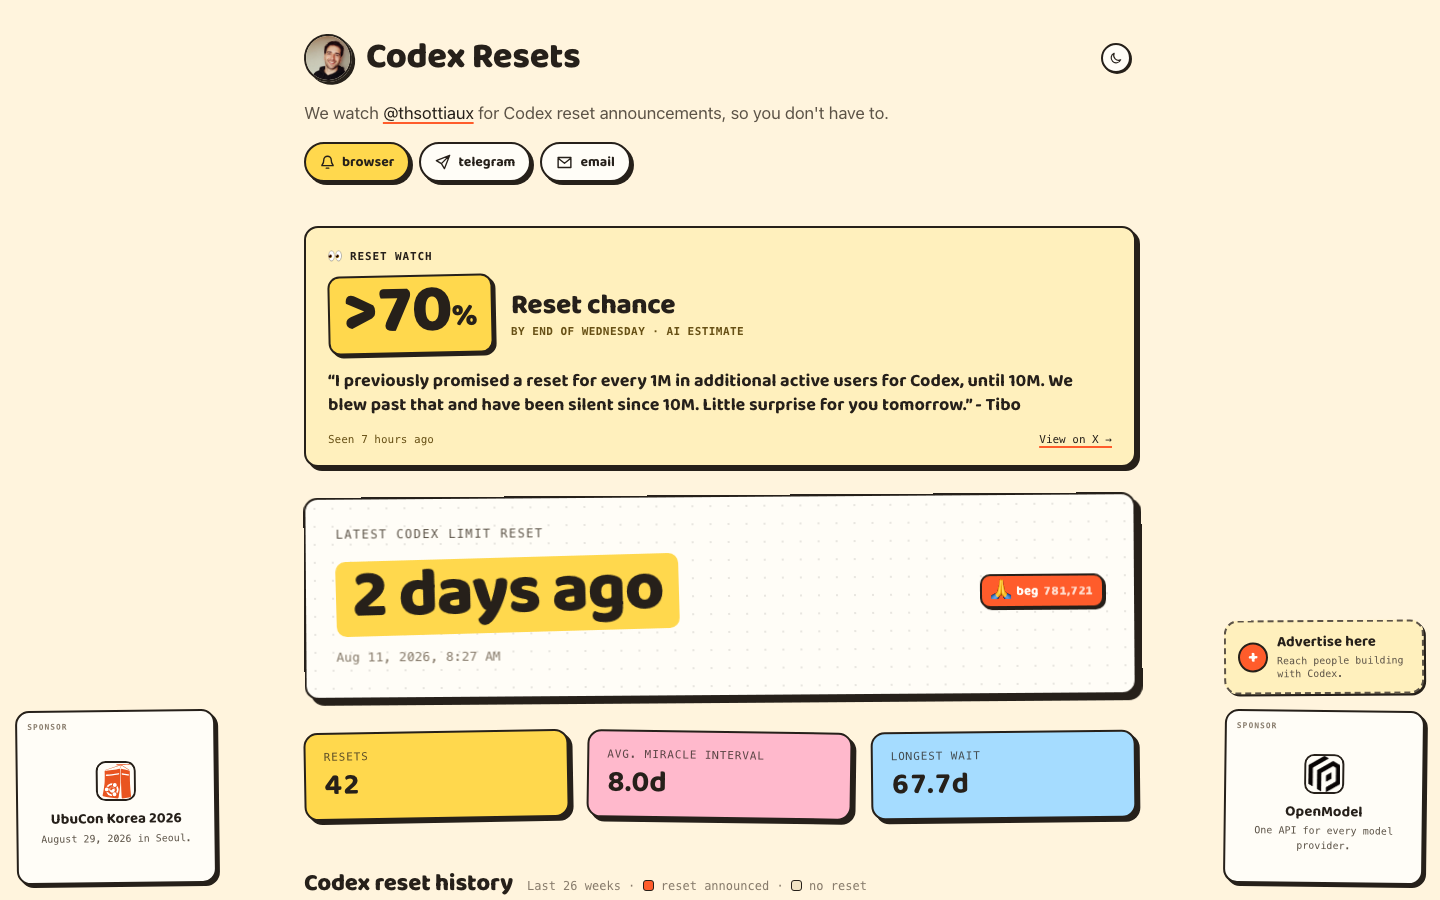
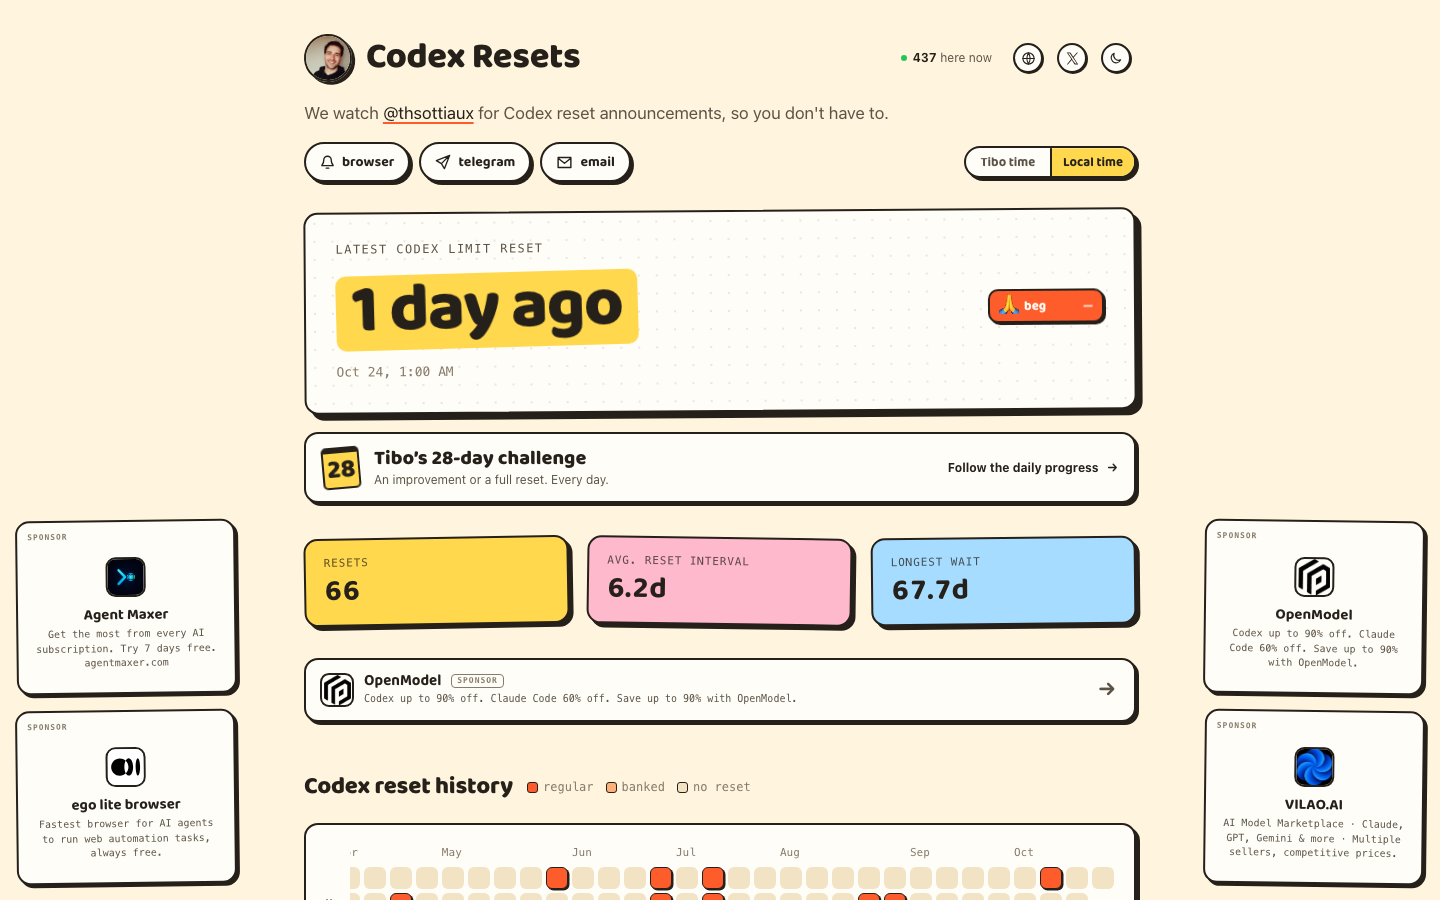
data(sites): refresh Codex Resets and exported style guides

diff --git a/sites/codex-resets-com/STYLE-GUIDE.md b/sites/codex-resets-com/STYLE-GUIDE.md
@@ -2,8 +2,8 @@
 
 ## 风格方向
 主风格：Neo-Brutalism · 次风格：Playful-Illustrative
-气质词：厚实 / 俏皮 / 温暖 / 直接
-温暖奶油纸色与深墨色建立厚实清晰的基础，暖黄、橙红、粉和浅蓝以小面积并置，形成轻松鲜明的新粗野主义气质。硬边描线、偏移阴影、柔和圆角与圆润粗体共同带来直接而有触感的视觉表达。
+气质词：纸感温暖 / 圆润厚实 / 硬边描线 / 明快俏皮
+奶油纸色与近白表面承托深墨色，少量橙红形成鲜明强调。圆润粗体展示字与清爽常规正文形成对照，等宽小字补充细节节奏。清晰描边和无模糊偏移阴影共同形成温暖而直接的视觉语言。
 
 ## 语义色彩
 | 用途 | 色值 | 使用方式 |
@@ -17,37 +17,37 @@
 
 ## 字体系统
 - 展示文字："Baloo 2", "Arial Rounded MT Bold", system-ui, sans-serif · 68px / 800 / 1.05 · 字距 -1.36px
-- 正文："Baloo 2", "Arial Rounded MT Bold", system-ui, sans-serif · 18px / 700 / 1.35 · 字距 0px
-- 元信息：ui-monospace, "SF Mono", "Cascadia Code", Menlo, Consolas, monospace · 8px / 700 / 1.55 · 字距 0.96px
-- 字体关系：统一字体家族，以字号与字重建立层级
-- 对比：高对比。字阶范围 28–68px。
-- H5：28px / 800 / 1.12
-- H4：30px / 700 / 1.1
-- H3：33px / 800 / 0.94
+- 正文：system-ui, -apple-system, "Segoe UI", sans-serif · 17px / 400 / 1.55 · 字距 0px
+- 元信息：ui-monospace, "SF Mono", "Cascadia Code", Menlo, Consolas, monospace · 8px / 700 / 1 · 字距 0.96px
+- 字体关系：展示字体与正文字体形成对照
+- 对比：高对比。字阶范围 24–68px。
+- H5：24px / 800 / 1.55
+- H4：26px / 800 / 1
+- H3：30px / 700 / 1.1
 - H2：36px / 800 / 1.05
-- H1：68px / 800 / 0.95
+- H1：68px / 800 / 1.05
 
 ## 复合视觉语法
-- 色彩模式：浅色基底；奶油中性色为底，暖黄、橙红、粉与浅蓝分区点缀；暖黄承担主要强调，其他明快色小面积并置。
-- 描边：强调描边，1px / 2px solid。
-- 表面：奶油纸面与暖白承载面依靠墨色边界分层。
+- 色彩模式：浅色基底；背景与承载面分层，中性色占主导；强调色少量点缀。
+- 描边：强调描边，1px / 2px / 6px solid。
+- 表面：背景与承载面分层，中性色占主导。
 - 层次：硬质偏移阴影。
-- 形态：柔和圆角。
+- 形态：克制小圆角。
 - 间距节奏：紧凑节奏。
-- 元素特征：统一字体层级 / 强调描边 / 偏移硬阴影 / 浅色基底 / 分层表面 / 柔和圆角。
+- 元素特征：字体角色对照 / 强调描边 / 偏移硬阴影 / 浅色基底 / 分层表面 / 克制小圆角。
 
 ## 间距与形态
 - 间距基准：4px；整体密度：紧凑。
-- 间距阶梯：2px / 3px / 4px / 6px / 7px / 8px / 9px / 10px。
-- 圆角：偏圆润（3px / 12px / 14px）。
+- 间距阶梯：1px / 2px / 4px / 5px / 6px / 8px / 9px / 11px。
+- 圆角：较克制（3px / 6px / 14px）。
 - 阴影：有，rgb(38, 32, 26) 3px 3px 0px 0px。
 
 ## CSS
 ```css
 :root {
-  --tk-font-sans: "Baloo 2", "Arial Rounded MT Bold", system-ui, sans-serif;
+  --tk-font-sans: system-ui, -apple-system, "Segoe UI", sans-serif;
   --tk-font-display: "Baloo 2", "Arial Rounded MT Bold", system-ui, sans-serif;
-  --tk-radius: 12px;
+  --tk-radius: 6px;
   --tk-shadow: rgb(38, 32, 26) 3px 3px 0px 0px;
   --tk-space: 4px;
   --tk-bg: #fff4dd;
@@ -56,5 +56,70 @@
   --tk-muted: #5c5347;
   --tk-accent: #ff5c2b;
   --tk-border: #26201a;
+  --tk-display-font: "Baloo 2", "Arial Rounded MT Bold", system-ui, sans-serif;
+  --tk-display-size: 68px;
+  --tk-display-weight: 800;
+  --tk-display-leading: 1.05;
+  --tk-display-tracking: -1.36px;
+  --tk-display-style: normal;
+  --tk-display-transform: none;
+  --tk-body-font: system-ui, -apple-system, "Segoe UI", sans-serif;
+  --tk-body-size: 17px;
+  --tk-body-weight: 400;
+  --tk-body-leading: 1.55;
+  --tk-body-tracking: 0px;
+  --tk-body-style: normal;
+  --tk-body-transform: none;
+  --tk-meta-font: ui-monospace, "SF Mono", "Cascadia Code", Menlo, Consolas, monospace;
+  --tk-meta-size: 8px;
+  --tk-meta-weight: 700;
+  --tk-meta-leading: 1;
+  --tk-meta-tracking: 0.96px;
+  --tk-meta-style: normal;
+  --tk-meta-transform: uppercase;
+  --tk-stroke-width: 2px;
+  --tk-stroke-style: solid;
+}
+
+.style-display {
+  font-family: var(--tk-display-font);
+  font-size: var(--tk-display-size);
+  font-weight: var(--tk-display-weight);
+  line-height: var(--tk-display-leading);
+  letter-spacing: var(--tk-display-tracking);
+  font-style: var(--tk-display-style);
+  text-transform: var(--tk-display-transform);
+}
+
+.style-body {
+  font-family: var(--tk-body-font);
+  font-size: var(--tk-body-size);
+  font-weight: var(--tk-body-weight);
+  line-height: var(--tk-body-leading);
+  letter-spacing: var(--tk-body-tracking);
+  font-style: var(--tk-body-style);
+  text-transform: var(--tk-body-transform);
+}
+
+.style-meta {
+  font-family: var(--tk-meta-font);
+  font-size: var(--tk-meta-size);
+  font-weight: var(--tk-meta-weight);
+  line-height: var(--tk-meta-leading);
+  letter-spacing: var(--tk-meta-tracking);
+  font-style: var(--tk-meta-style);
+  text-transform: var(--tk-meta-transform);
 }
 ```
+
+## 复用与来源
+- 来源：https://codex-resets.com/
+- 采集日期：2026-10-25
+- 先加载对应字体，再应用角色样式；仅声明字体名称不会安装或下载字体。本风格包不包含字体文件。
+- 字体栈："Baloo 2", "Arial Rounded MT Bold", system-ui, sans-serif
+- 字体栈：system-ui, -apple-system, "Segoe UI", sans-serif
+- 字体栈：ui-monospace, "SF Mono", "Cascadia Code", Menlo, Consolas, monospace
+- 将 .style-display 用于展示文字、.style-body 用于正文、.style-meta 用于辅助文字，并用语义色变量设置背景与文本。
+- 优先保留展示字与正文的关系、背景与表面的层次、强调色比例、描边和阴影。角色字号为采样值，按目标内容和屏幕调整。
+- 色彩与角色 CSS 用于你的内容；原站布局、图片、图表和数据不在风格包中。
+- 调色板覆盖率仅验证采样画面的颜色，不是整体相似度。

diff --git a/sites/yeguozi-com/STYLE-GUIDE.md b/sites/yeguozi-com/STYLE-GUIDE.md
@@ -56,5 +56,70 @@
   --tk-muted: #a8a59e;
   --tk-accent: #c9a96e;
   --tk-border: #2f343d;
+  --tk-display-font: "Cormorant Garamond", "Cormorant Garamond Fallback", "Cormorant Garamond", "Noto Serif SC", "Noto Serif SC Fallback", "Noto Serif SC", "Songti SC", Georgia, serif;
+  --tk-display-size: 48px;
+  --tk-display-weight: 400;
+  --tk-display-leading: 1.12;
+  --tk-display-tracking: 0px;
+  --tk-display-style: normal;
+  --tk-display-transform: none;
+  --tk-body-font: "Helvetica Neue", Helvetica, "Segoe UI", system-ui, -apple-system, Arial, sans-serif, "PingFang SC", "Microsoft YaHei";
+  --tk-body-size: 14px;
+  --tk-body-weight: 400;
+  --tk-body-leading: 1.63;
+  --tk-body-tracking: 0px;
+  --tk-body-style: normal;
+  --tk-body-transform: none;
+  --tk-meta-font: "Helvetica Neue", Helvetica, "Segoe UI", system-ui, -apple-system, Arial, sans-serif, "PingFang SC", "Microsoft YaHei";
+  --tk-meta-size: 9px;
+  --tk-meta-weight: 600;
+  --tk-meta-leading: 1;
+  --tk-meta-tracking: 0.23px;
+  --tk-meta-style: normal;
+  --tk-meta-transform: uppercase;
+  --tk-stroke-width: 1px;
+  --tk-stroke-style: solid;
+}
+
+.style-display {
+  font-family: var(--tk-display-font);
+  font-size: var(--tk-display-size);
+  font-weight: var(--tk-display-weight);
+  line-height: var(--tk-display-leading);
+  letter-spacing: var(--tk-display-tracking);
+  font-style: var(--tk-display-style);
+  text-transform: var(--tk-display-transform);
+}
+
+.style-body {
+  font-family: var(--tk-body-font);
+  font-size: var(--tk-body-size);
+  font-weight: var(--tk-body-weight);
+  line-height: var(--tk-body-leading);
+  letter-spacing: var(--tk-body-tracking);
+  font-style: var(--tk-body-style);
+  text-transform: var(--tk-body-transform);
+}
+
+.style-meta {
+  font-family: var(--tk-meta-font);
+  font-size: var(--tk-meta-size);
+  font-weight: var(--tk-meta-weight);
+  line-height: var(--tk-meta-leading);
+  letter-spacing: var(--tk-meta-tracking);
+  font-style: var(--tk-meta-style);
+  text-transform: var(--tk-meta-transform);
 }
 ```
+
+## 复用与来源
+- 来源：https://yeguozi.com/
+- 采集日期：2026-08-12
+- 先加载对应字体，再应用角色样式；仅声明字体名称不会安装或下载字体。本风格包不包含字体文件。
+- 字体栈："Cormorant Garamond", "Cormorant Garamond Fallback", "Cormorant Garamond", "Noto Serif SC", "Noto Serif SC Fallback", "Noto Serif SC", "Songti SC", Georgia, serif
+- 字体栈："Helvetica Neue", Helvetica, "Segoe UI", system-ui, -apple-system, Arial, sans-serif, "PingFang SC", "Microsoft YaHei"
+- 将 .style-display 用于展示文字、.style-body 用于正文、.style-meta 用于辅助文字，并用语义色变量设置背景与文本。
+- 优先保留展示字与正文的关系、背景与表面的层次、强调色比例、描边和阴影。角色字号为采样值，按目标内容和屏幕调整。
+- 色彩与角色 CSS 用于你的内容；原站布局、图片、图表和数据不在风格包中。
+- 校验说明：非媒体可校验像素比例 0.122（阈值 0.2），结果仅供参考。
+- 调色板覆盖率仅验证采样画面的颜色，不是整体相似度。

diff --git a/sites/historyofmarket-com/STYLE-GUIDE.md b/sites/historyofmarket-com/STYLE-GUIDE.md
@@ -56,5 +56,70 @@
   --tk-muted: #5c5c65;
   --tk-accent: #1f3656;
   --tk-border: #c6cecd;
+  --tk-display-font: "HOM Nameplate Lg", Georgia, serif;
+  --tk-display-size: 72px;
+  --tk-display-weight: 900;
+  --tk-display-leading: 0.92;
+  --tk-display-tracking: -1.58px;
+  --tk-display-style: normal;
+  --tk-display-transform: none;
+  --tk-body-font: "Literata HOM", "PingFang SC", "Microsoft YaHei", "Hiragino Sans GB", "Noto Sans SC", "Heiti SC", system-ui, sans-serif;
+  --tk-body-size: 19px;
+  --tk-body-weight: 400;
+  --tk-body-leading: 1.74;
+  --tk-body-tracking: 0.04px;
+  --tk-body-style: normal;
+  --tk-body-transform: none;
+  --tk-meta-font: "HOM Figure", "Apparatus HOM", "PingFang SC", "Microsoft YaHei", system-ui, sans-serif;
+  --tk-meta-size: 10px;
+  --tk-meta-weight: 400;
+  --tk-meta-leading: 1.55;
+  --tk-meta-tracking: 1px;
+  --tk-meta-style: normal;
+  --tk-meta-transform: none;
+  --tk-stroke-width: 1px;
+  --tk-stroke-style: solid;
+}
+
+.style-display {
+  font-family: var(--tk-display-font);
+  font-size: var(--tk-display-size);
+  font-weight: var(--tk-display-weight);
+  line-height: var(--tk-display-leading);
+  letter-spacing: var(--tk-display-tracking);
+  font-style: var(--tk-display-style);
+  text-transform: var(--tk-display-transform);
+}
+
+.style-body {
+  font-family: var(--tk-body-font);
+  font-size: var(--tk-body-size);
+  font-weight: var(--tk-body-weight);
+  line-height: var(--tk-body-leading);
+  letter-spacing: var(--tk-body-tracking);
+  font-style: var(--tk-body-style);
+  text-transform: var(--tk-body-transform);
+}
+
+.style-meta {
+  font-family: var(--tk-meta-font);
+  font-size: var(--tk-meta-size);
+  font-weight: var(--tk-meta-weight);
+  line-height: var(--tk-meta-leading);
+  letter-spacing: var(--tk-meta-tracking);
+  font-style: var(--tk-meta-style);
+  text-transform: var(--tk-meta-transform);
 }
 ```
+
+## 复用与来源
+- 来源：https://historyofmarket.com/
+- 采集日期：2026-08-12
+- 先加载对应字体，再应用角色样式；仅声明字体名称不会安装或下载字体。本风格包不包含字体文件。
+- 字体栈："HOM Nameplate Lg", Georgia, serif
+- 字体栈："Literata HOM", "PingFang SC", "Microsoft YaHei", "Hiragino Sans GB", "Noto Sans SC", "Heiti SC", system-ui, sans-serif
+- 字体栈："HOM Figure", "Apparatus HOM", "PingFang SC", "Microsoft YaHei", system-ui, sans-serif
+- 将 .style-display 用于展示文字、.style-body 用于正文、.style-meta 用于辅助文字，并用语义色变量设置背景与文本。
+- 优先保留展示字与正文的关系、背景与表面的层次、强调色比例、描边和阴影。角色字号为采样值，按目标内容和屏幕调整。
+- 色彩与角色 CSS 用于你的内容；原站布局、图片、图表和数据不在风格包中。
+- 调色板覆盖率仅验证采样画面的颜色，不是整体相似度。
